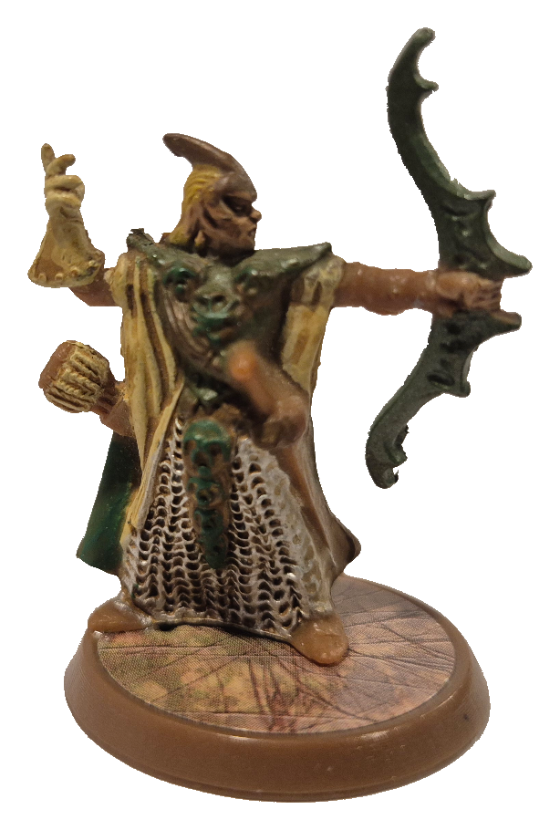
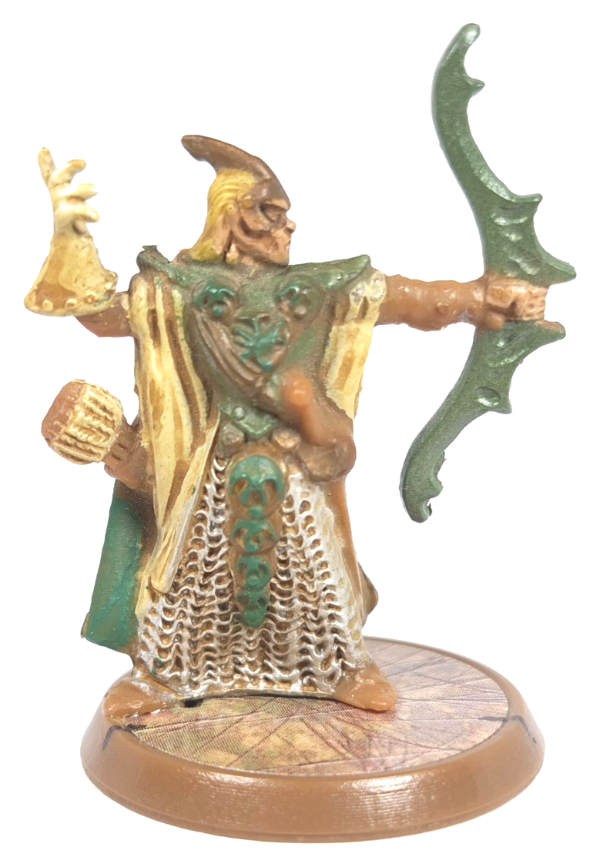
HeroScape: new Raelin, Finn, Syvarris cut-outs from clean reshoots
Knocked out from the user's clean-white reshoots: Finn/Syvarris cut clean at tol=34;
Raelin (pale wings on white — the hard case) at tol=28, wings read well with only
minor membrane translucency. Crops set to the short standing-figure bases (raelin
0.11 — tall so small base fraction, finn 0.13, syvarris 0.12).

diff --git a/src/lib/games/heroscape/figureBase.ts b/src/lib/games/heroscape/figureBase.ts
@@ -18,7 +18,9 @@ export const BASE_CROP_BY_CARD: Record<string, number> = {
   zettian_guards: 0.28,
   deathwalker_9000: 0.18,
   thorgrim: 0.18,         // reshot 2026-06-17 on clean white; flat disc base
-  raelin: 0.16,
+  raelin: 0.11,           // reshot; tall (wings up) so the base is a small fraction
+  finn: 0.13,             // reshot
+  syvarris: 0.12,         // reshot
   grimnak: 0.13,          // 2-hex oval base, tall rider
   mimring: 0.15,          // 2-hex dragon, low base
   nilfheim: 0.15,         // 2-hex dragon, low base